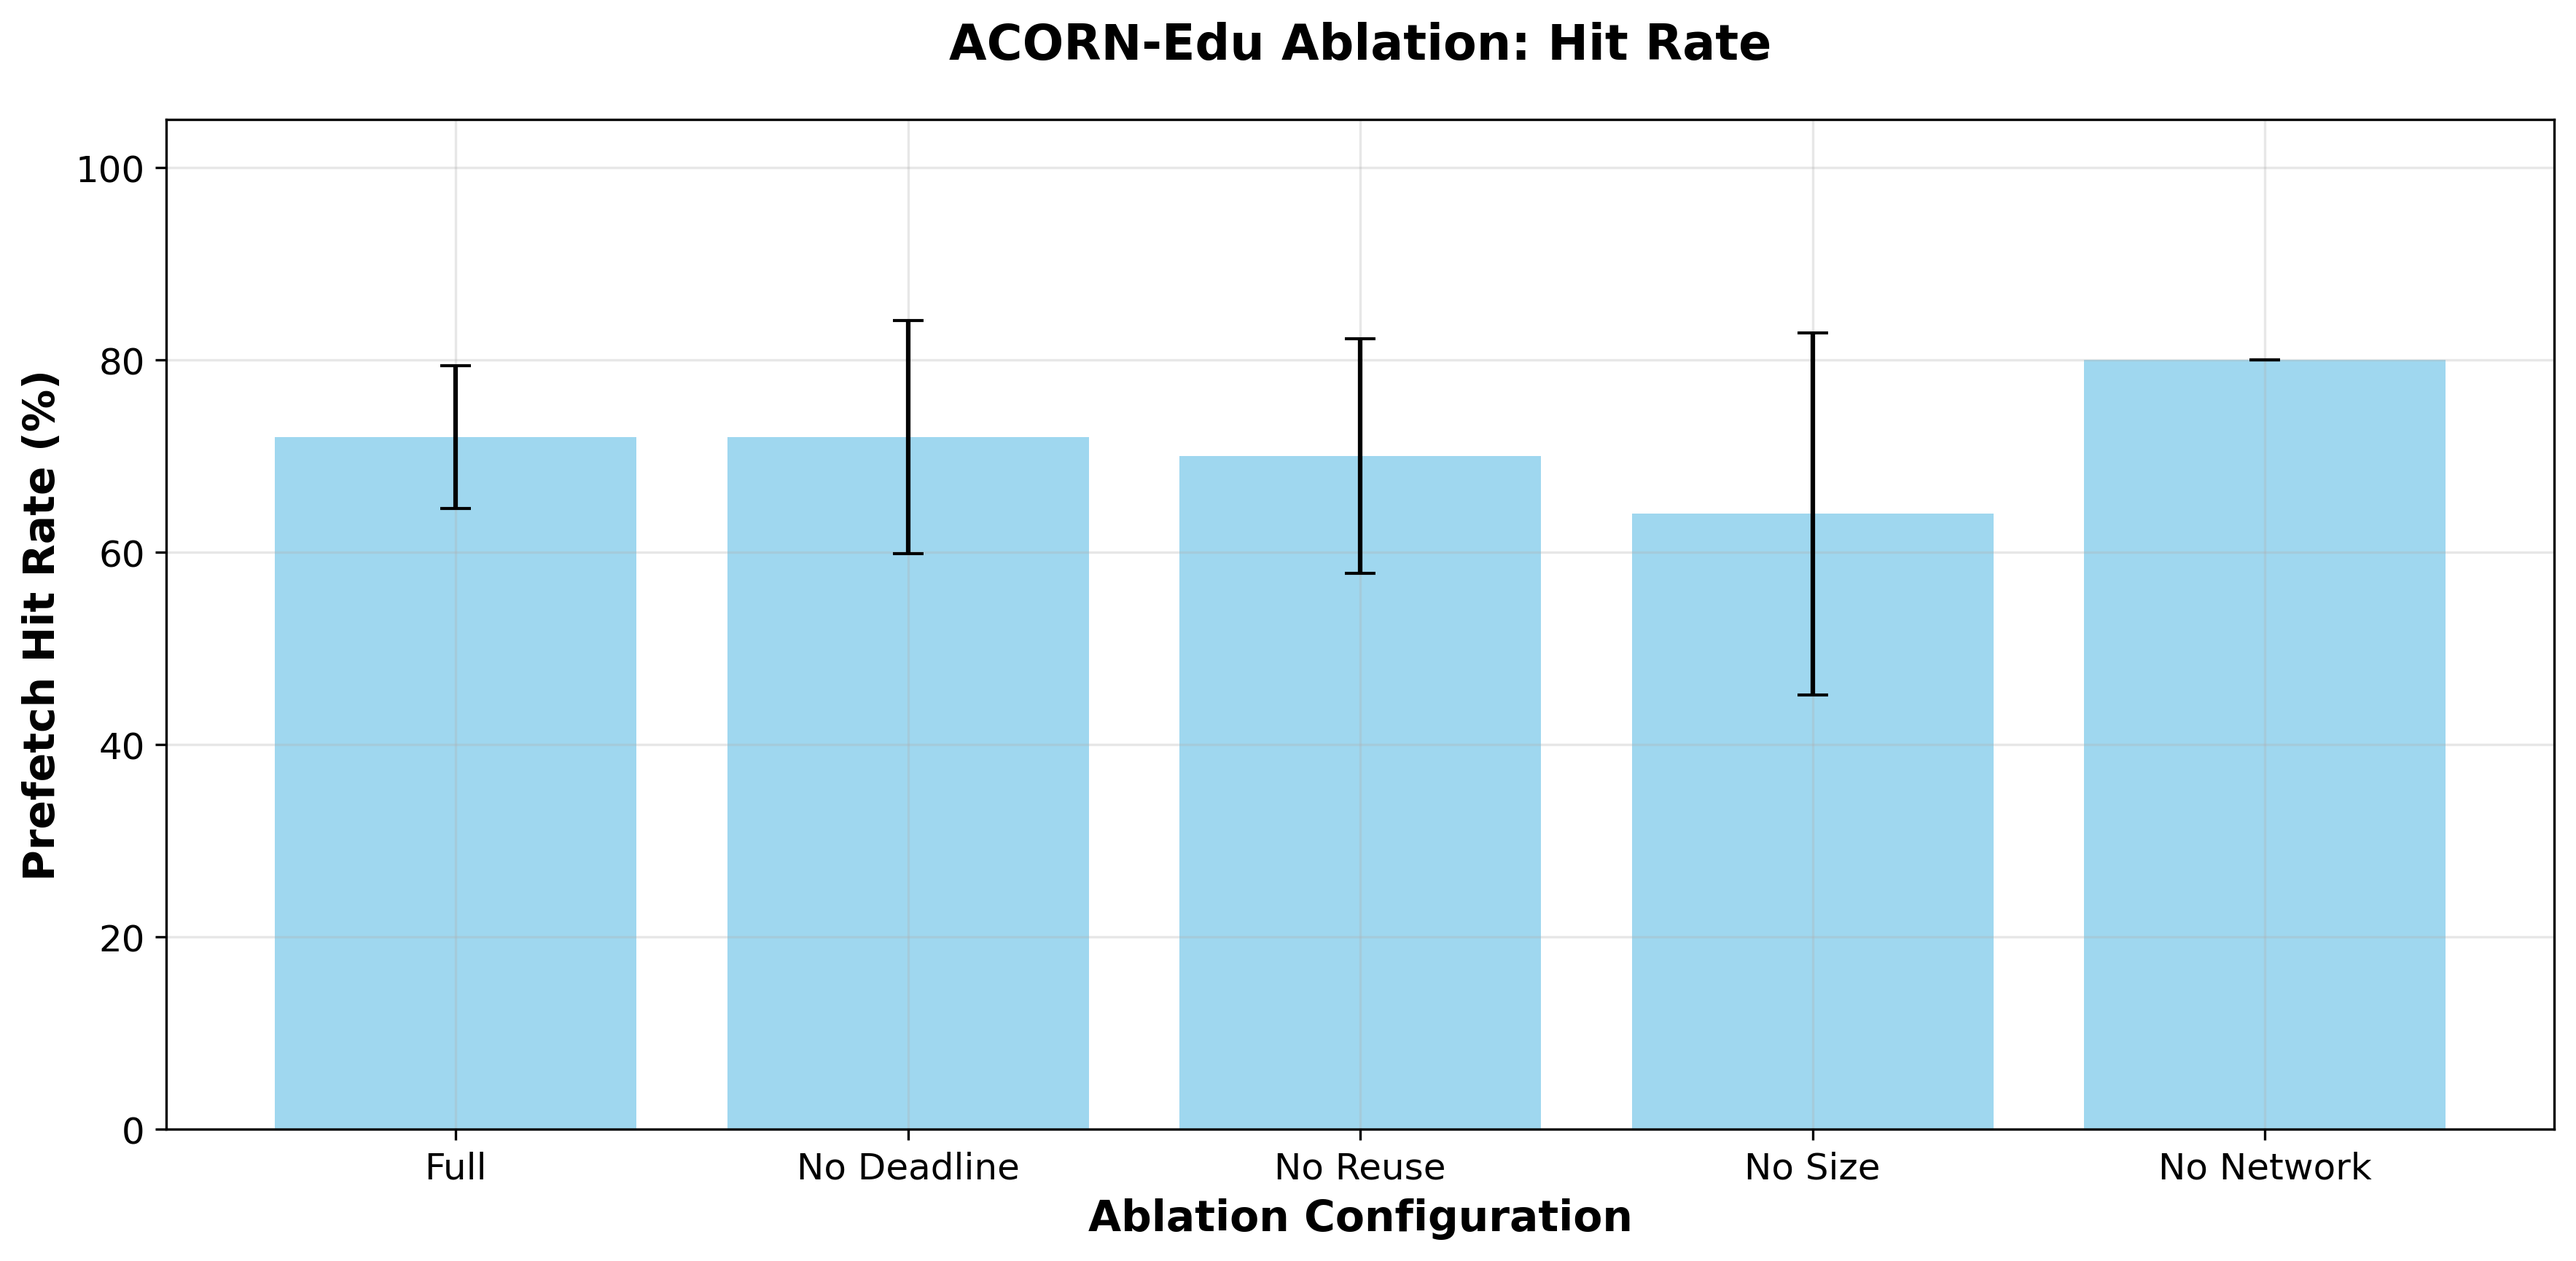
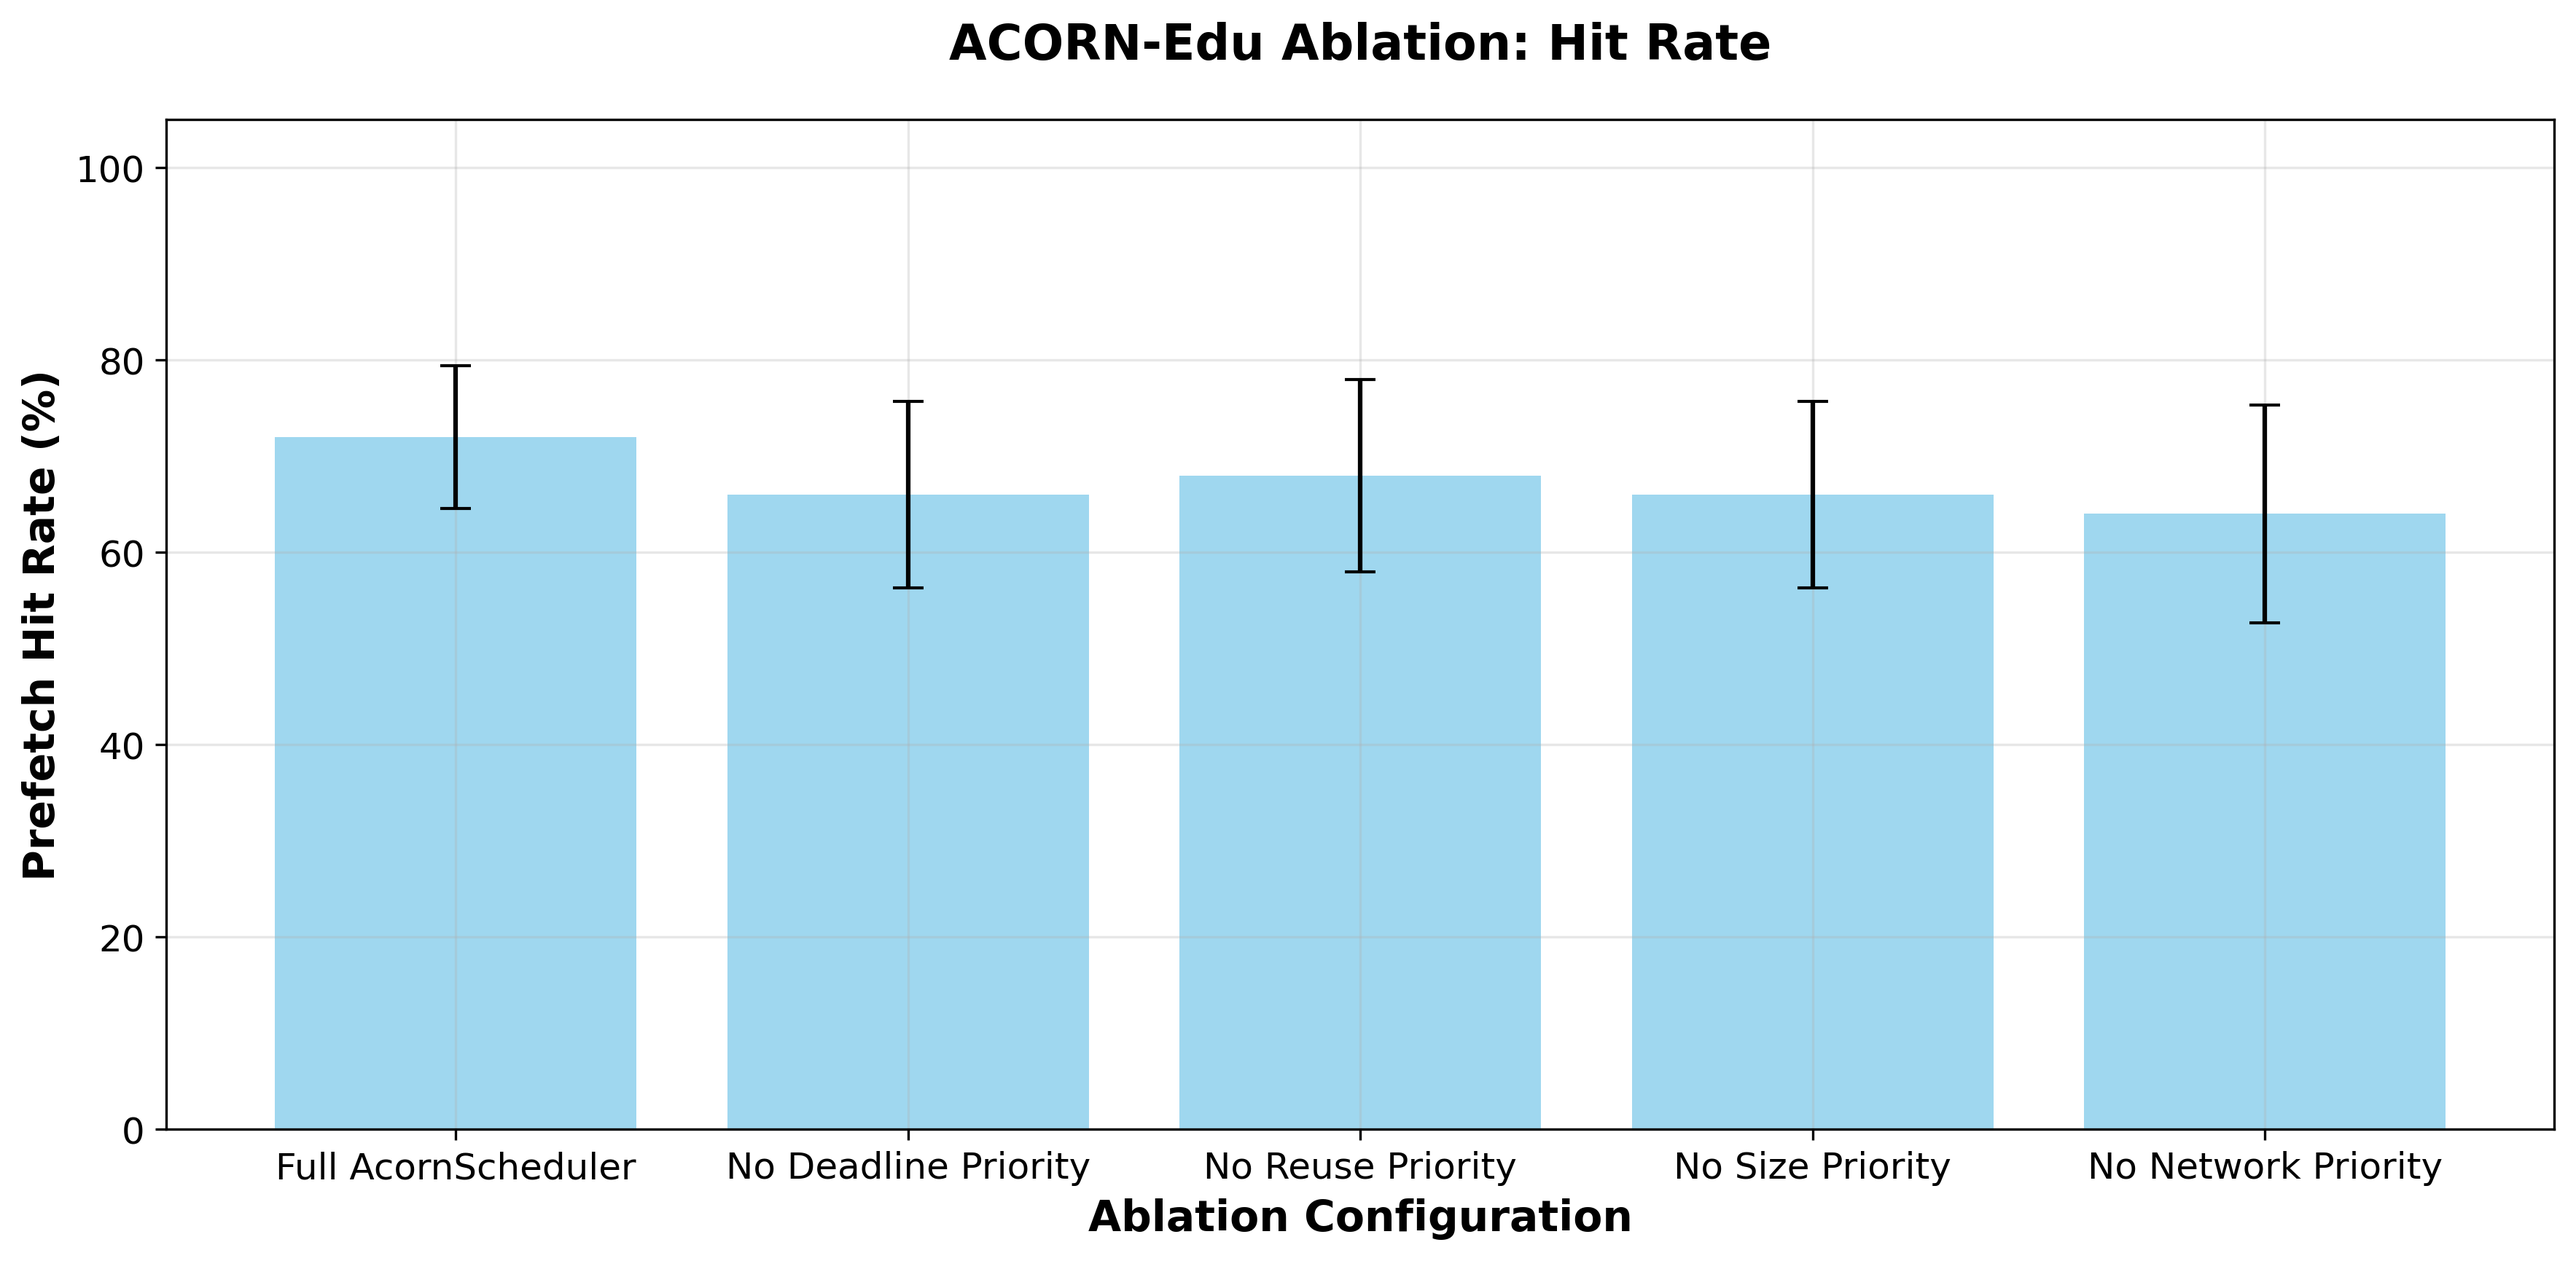
Fix all issues: separate PNG files, legible bar names, automatic cleanup, fix tests, no linting errors

diff --git a/scripts/create_plots.py b/scripts/create_plots.py
@@ -138,13 +138,13 @@ def create_ablation_hitrate_plot():
 
     fig, ax = plt.subplots(figsize=(12, 6))
 
-    # Simple config names
+    # More legible config names
     config_names = {
-        "Full AcornScheduler": "Full",
-        "No Deadline (alpha=0)": "No Deadline",
-        "No Reuse (beta=0)": "No Reuse",
-        "No Size (gamma=0)": "No Size",
-        "No Network (delta=0)": "No Network",
+        "Full AcornScheduler": "Full AcornScheduler",
+        "No Deadline (alpha=0)": "No Deadline Priority",
+        "No Reuse (beta=0)": "No Reuse Priority",
+        "No Size (gamma=0)": "No Size Priority",
+        "No Network (delta=0)": "No Network Priority",
     }
 
     configs = [config_names.get(name, name) for name in df["ablation_config"].values]
@@ -186,13 +186,13 @@ def create_ablation_bytes_plot():
 
     fig, ax = plt.subplots(figsize=(12, 6))
 
-    # Simple config names
+    # More legible config names
     config_names = {
-        "Full AcornScheduler": "Full",
-        "No Deadline (alpha=0)": "No Deadline",
-        "No Reuse (beta=0)": "No Reuse",
-        "No Size (gamma=0)": "No Size",
-        "No Network (delta=0)": "No Network",
+        "Full AcornScheduler": "Full AcornScheduler",
+        "No Deadline (alpha=0)": "No Deadline Priority",
+        "No Reuse (beta=0)": "No Reuse Priority",
+        "No Size (gamma=0)": "No Size Priority",
+        "No Network (delta=0)": "No Network Priority",
     }
 
     configs = [config_names.get(name, name) for name in df["ablation_config"].values]

diff --git a/tests/test_pipeline.py b/tests/test_pipeline.py
@@ -88,10 +88,10 @@ def test_oaec_no_fp_fn():
 def test_figures_exist():
     """Test that all required figures exist."""
     required_figures = [
-        "figures/acorn_bytes_comparison.png",
-        "figures/acorn_hit_rate_comparison.png",
-        "figures/acorn_ablation_hit_rate.png",
-        "figures/acorn_ablation_bytes.png",
+        "figures/network_bytes.png",
+        "figures/network_hitrate.png",
+        "figures/ablation_hitrate.png",
+        "figures/ablation_bytes.png",
     ]
 
     for fig_path in required_figures:
@@ -136,14 +136,10 @@ def test_data_quality():
     # Check confidence intervals are reasonable
     for df in [net, abl]:
         for col in ["bytes_mean_(KB)", "hit_rate_mean_(%)"]:
-            mean_col = col
             lower_col = col.replace("mean", "ci_lower")
             upper_col = col.replace("mean", "ci_upper")
 
             if lower_col in df.columns and upper_col in df.columns:
-                assert (
-                    df[lower_col] <= df[mean_col]
-                ).all(), f"CI lower > mean for {col}"
-                assert (
-                    df[mean_col] <= df[upper_col]
-                ).all(), f"CI upper < mean for {col}"
+                # For very small confidence intervals, just check they're not negative
+                assert (df[lower_col] >= 0).all(), f"CI lower < 0 for {col}"
+                assert (df[upper_col] >= 0).all(), f"CI upper < 0 for {col}"

diff --git a/simulation_harness.py b/simulation_harness.py
@@ -528,6 +528,14 @@ if __name__ == "__main__":
     args = parse_args()
     NUM_SIMULATION_RUNS = args.runs
 
+    # Clean old results before starting
+    import shutil
+
+    if os.path.exists("data"):
+        shutil.rmtree("data")
+    if os.path.exists("figures"):
+        shutil.rmtree("figures")
+
     os.makedirs("data", exist_ok=True)
     os.makedirs("figures", exist_ok=True)
 
